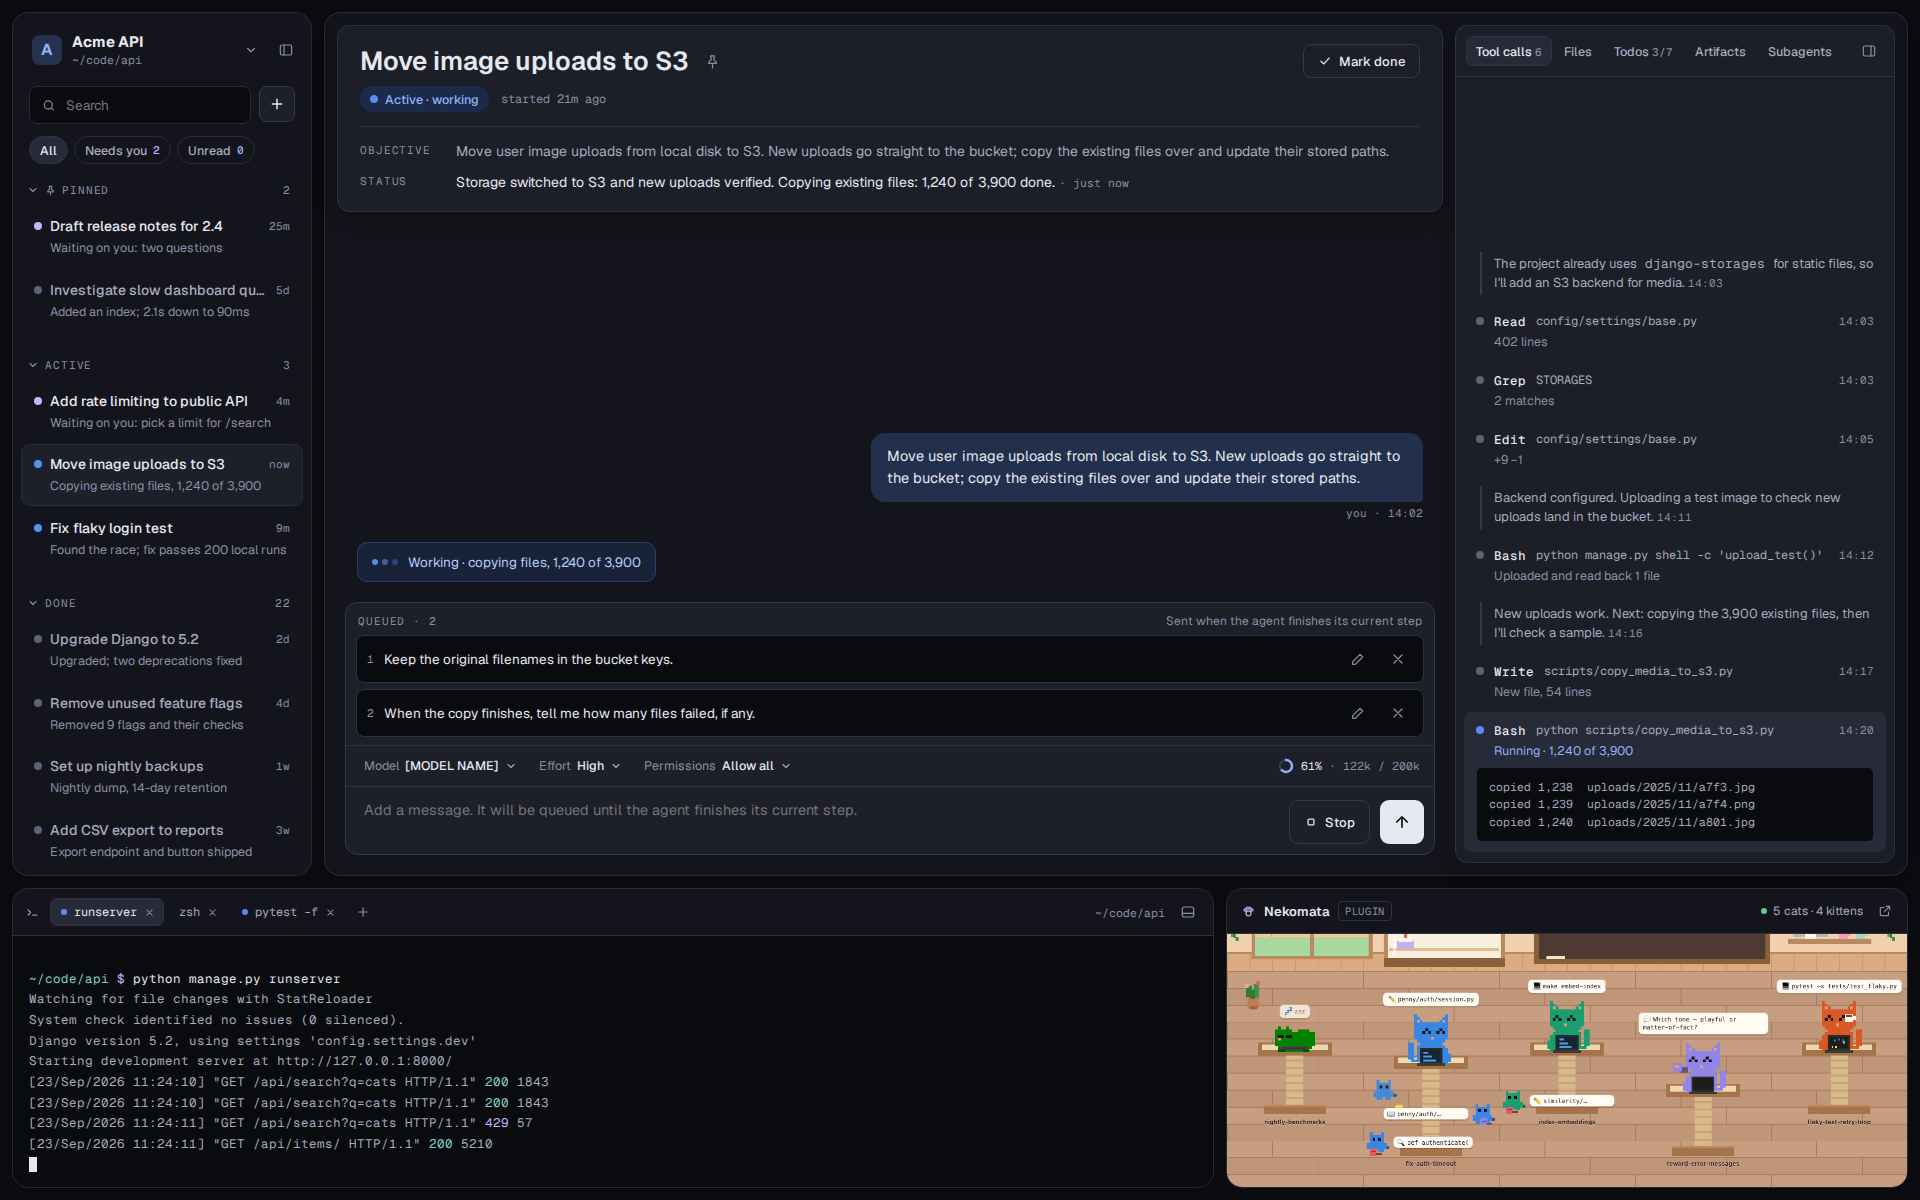
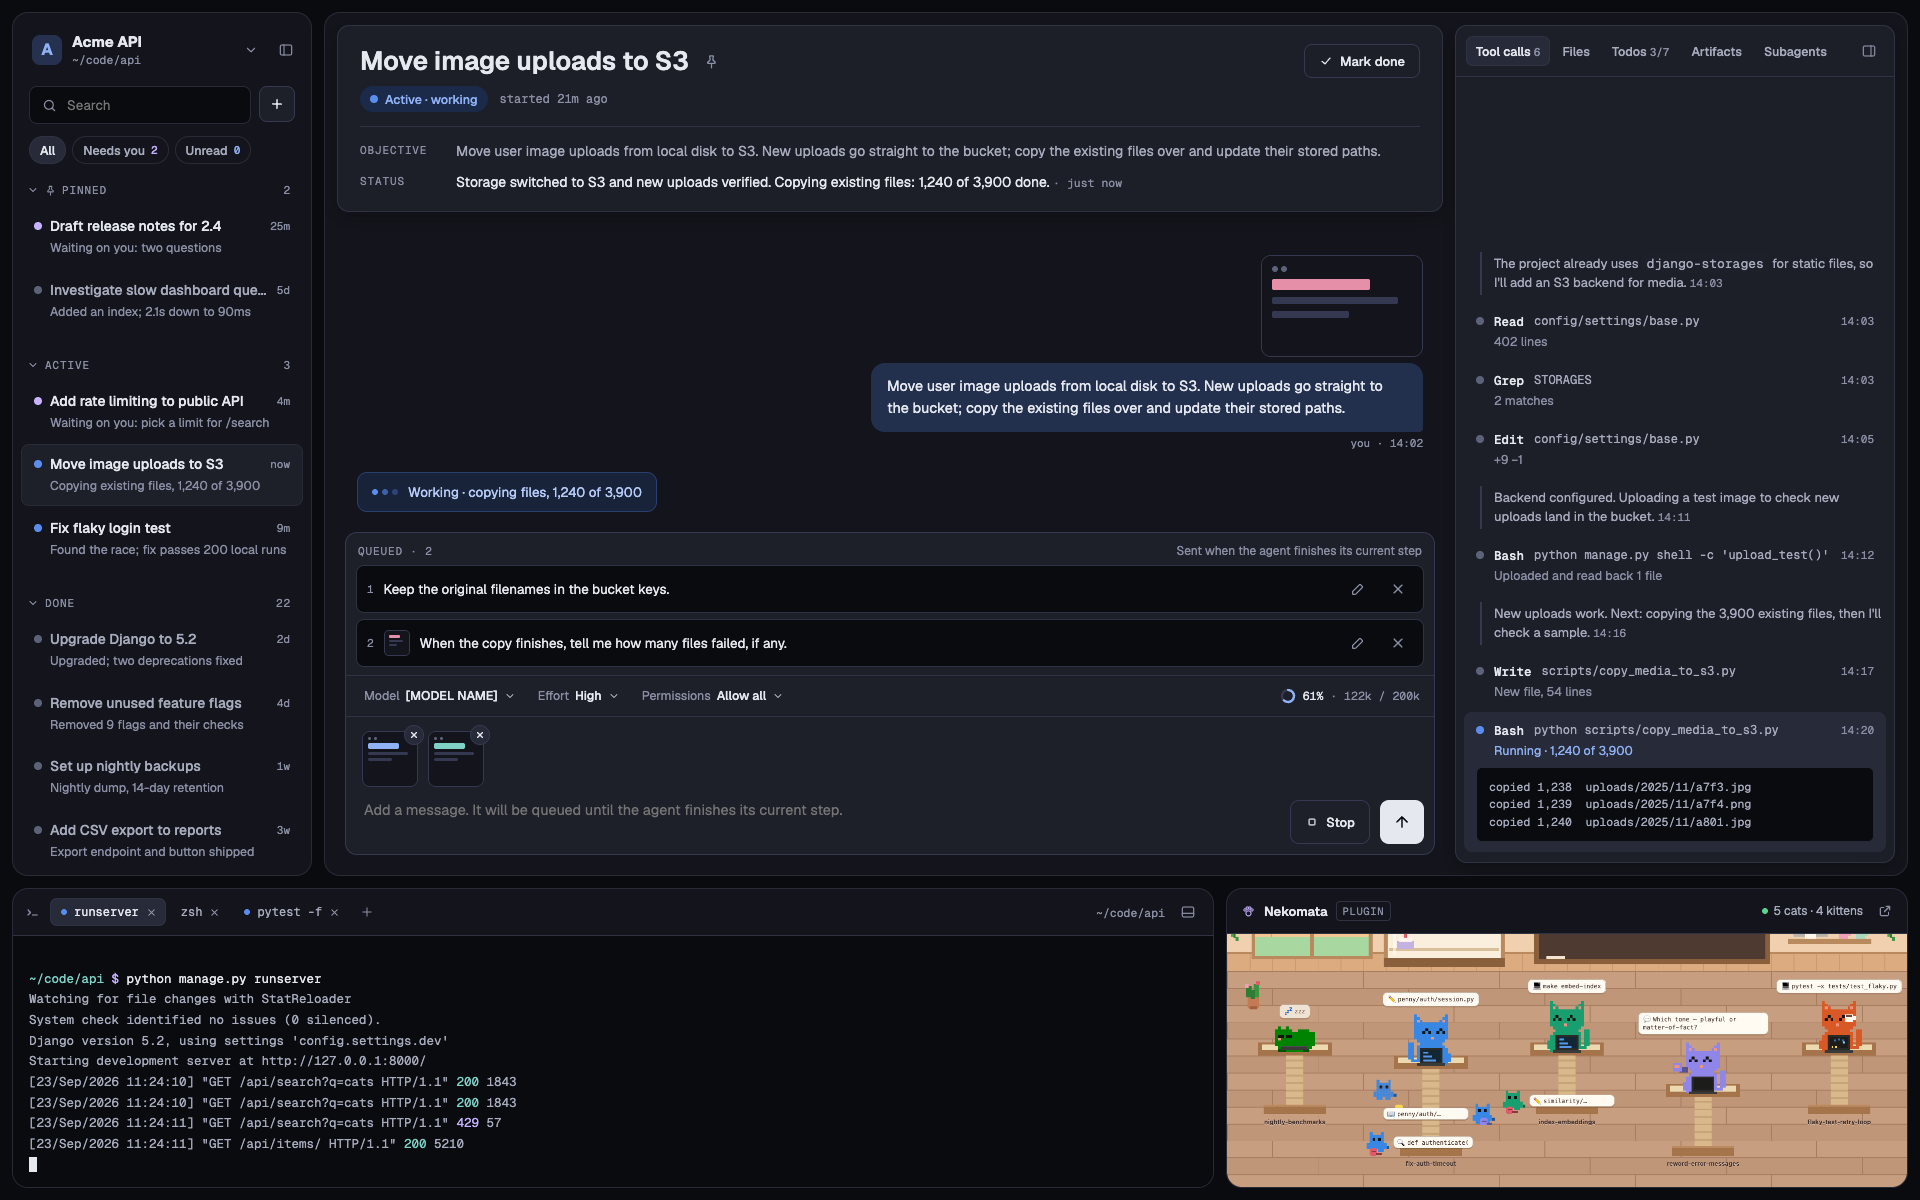
P9-07: add pasted images to the agent working design

diff --git a/docs/design/html/02-agent-working.html b/docs/design/html/02-agent-working.html
@@ -107,6 +107,7 @@ a{color:#8FB2F5}a:hover{color:#B5CBF8}
 <main style="flex-grow: 1; min-height: 0; min-width: 0; display: flex; flex-direction: column">
 <div style="flex-grow: 1; min-height: 0; overflow: hidden; padding: 12px 20px 20px 20px; display: flex; flex-direction: column; justify-content: flex-end; gap: 22px">
 <div style="flex-shrink: 0; display: flex; flex-direction: column; align-items: flex-end; gap: 4px">
+<span role="img" aria-label="Pasted image" style="display: block; margin-bottom: 2px; border: 1px solid #343850; border-radius: 10px; overflow: hidden"><span style="display: flex; flex-direction: column; gap: 7px; width: 160px; height: 100px; box-sizing: border-box; padding: 10px; background: #14151C; border-radius: 9px; overflow: hidden"><span style="display: flex; gap: 3px"><span style="width: 6px; height: 6px; border-radius: 50%; background: #5C6378"></span><span style="width: 6px; height: 6px; border-radius: 50%; background: #5C6378"></span></span><span style="height: 11px; width: 70%; border-radius: 2px; background: #E58FA8"></span><span style="height: 7px; width: 90%; border-radius: 2px; background: #343850"></span><span style="height: 7px; width: 55%; border-radius: 2px; background: #343850"></span></span></span>
 <div style="max-width: 520px; padding: 12px 16px; background: #22304D; border-radius: 14px 14px 4px 14px; font-size: 14.5px; line-height: 1.55; color: #E6E8F0">Move user image uploads from local disk to S3. New uploads go straight to the bucket; copy the existing files over and update their stored paths.</div>
 <span style="font-family: 'Geist Mono', ui-monospace, monospace; font-size: 11px; color: #8A8FA5">you · 14:02</span>
 </div>
@@ -123,6 +124,7 @@ a{color:#8FB2F5}a:hover{color:#B5CBF8}
 <button type="button" aria-label="Edit queued message" title="Edit queued message" style="flex-shrink: 0; display: flex; align-items: center; justify-content: center; width: 30px; height: 30px; background: transparent; border: 0; border-radius: 7px; color: #8A8FA5; cursor: pointer"><svg width="16" height="16" viewBox="0 0 24 24" fill="none" stroke="currentColor" stroke-width="1.8" stroke-linecap="round" stroke-linejoin="round"><path d="M4 20h4L19 9l-4-4L4 16z"></path></svg></button><button type="button" aria-label="Remove queued message" title="Remove queued message" style="flex-shrink: 0; display: flex; align-items: center; justify-content: center; width: 30px; height: 30px; background: transparent; border: 0; border-radius: 7px; color: #8A8FA5; cursor: pointer"><svg width="16" height="16" viewBox="0 0 24 24" fill="none" stroke="currentColor" stroke-width="1.8" stroke-linecap="round" stroke-linejoin="round"><path d="M6 6l12 12M18 6 6 18"></path></svg></button>
 </div><div style="display: flex; align-items: center; gap: 10px; padding: 8px 10px; background: #0A0B0F; border: 1px solid #2E3242; border-radius: 8px">
 <span style="font-family: 'Geist Mono', ui-monospace, monospace; font-size: 11px; color: #8A8FA5">2</span>
+<span role="img" aria-label="Pasted image" style="flex-shrink: 0; display: block; width: 26px; height: 26px; box-sizing: border-box; border: 1px solid #343850; border-radius: 5px; overflow: hidden"><span style="display: flex; flex-direction: column; gap: 2px; width: 24px; height: 24px; box-sizing: border-box; padding: 4px; background: #14151C"><span style="height: 3px; width: 70%; border-radius: 1px; background: #E58FA8"></span><span style="height: 2px; width: 90%; border-radius: 1px; background: #343850"></span><span style="height: 2px; width: 55%; border-radius: 1px; background: #343850"></span></span></span>
 <span style="flex-grow: 1; min-width: 0; font-size: 13.5px; color: #E6E8F0; white-space: nowrap; overflow: hidden; text-overflow: ellipsis">When the copy finishes, tell me how many files failed, if any.</span>
 <button type="button" aria-label="Edit queued message" title="Edit queued message" style="flex-shrink: 0; display: flex; align-items: center; justify-content: center; width: 30px; height: 30px; background: transparent; border: 0; border-radius: 7px; color: #8A8FA5; cursor: pointer"><svg width="16" height="16" viewBox="0 0 24 24" fill="none" stroke="currentColor" stroke-width="1.8" stroke-linecap="round" stroke-linejoin="round"><path d="M4 20h4L19 9l-4-4L4 16z"></path></svg></button><button type="button" aria-label="Remove queued message" title="Remove queued message" style="flex-shrink: 0; display: flex; align-items: center; justify-content: center; width: 30px; height: 30px; background: transparent; border: 0; border-radius: 7px; color: #8A8FA5; cursor: pointer"><svg width="16" height="16" viewBox="0 0 24 24" fill="none" stroke="currentColor" stroke-width="1.8" stroke-linecap="round" stroke-linejoin="round"><path d="M6 6l12 12M18 6 6 18"></path></svg></button>
 </div>
@@ -133,6 +135,7 @@ a{color:#8FB2F5}a:hover{color:#B5CBF8}
 <span><span style="color: #E6E8F0">61%</span> · 122k / 200k</span>
 </span>
 </div>
+<div style="display: flex; flex-wrap: wrap; gap: 10px; padding: 14px 10px 0 16px"><span style="position: relative; flex-shrink: 0; display: block; width: 56px; height: 56px; box-sizing: border-box; border: 1px solid #343850; border-radius: 8px"><span role="img" aria-label="Pasted image" style="display: block; border-radius: 7px; overflow: hidden"><span style="display: flex; flex-direction: column; gap: 3px; width: 54px; height: 54px; box-sizing: border-box; padding: 5px; background: #14151C; border-radius: 7px; overflow: hidden"><span style="display: flex; gap: 3px"><span style="width: 3px; height: 3px; border-radius: 50%; background: #5C6378"></span><span style="width: 3px; height: 3px; border-radius: 50%; background: #5C6378"></span></span><span style="height: 6px; width: 70%; border-radius: 2px; background: #8FB2F5"></span><span style="height: 3px; width: 90%; border-radius: 2px; background: #343850"></span><span style="height: 3px; width: 55%; border-radius: 2px; background: #343850"></span></span></span><button type="button" aria-label="Remove image" title="Remove image" style="position: absolute; top: -7px; right: -7px; display: flex; align-items: center; justify-content: center; width: 20px; height: 20px; padding: 0; background: #272A38; color: #E6E8F0; border: 1px solid #343850; border-radius: 10px; cursor: pointer"><svg width="10" height="10" viewBox="0 0 24 24" fill="none" stroke="currentColor" stroke-width="2.6" stroke-linecap="round" stroke-linejoin="round"><path d="M6 6l12 12M18 6 6 18"></path></svg></button></span><span style="position: relative; flex-shrink: 0; display: block; width: 56px; height: 56px; box-sizing: border-box; border: 1px solid #343850; border-radius: 8px"><span role="img" aria-label="Pasted image" style="display: block; border-radius: 7px; overflow: hidden"><span style="display: flex; flex-direction: column; gap: 3px; width: 54px; height: 54px; box-sizing: border-box; padding: 5px; background: #14151C; border-radius: 7px; overflow: hidden"><span style="display: flex; gap: 3px"><span style="width: 3px; height: 3px; border-radius: 50%; background: #5C6378"></span><span style="width: 3px; height: 3px; border-radius: 50%; background: #5C6378"></span></span><span style="height: 6px; width: 70%; border-radius: 2px; background: #7FD1C7"></span><span style="height: 3px; width: 90%; border-radius: 2px; background: #343850"></span><span style="height: 3px; width: 55%; border-radius: 2px; background: #343850"></span></span></span><button type="button" aria-label="Remove image" title="Remove image" style="position: absolute; top: -7px; right: -7px; display: flex; align-items: center; justify-content: center; width: 20px; height: 20px; padding: 0; background: #272A38; color: #E6E8F0; border: 1px solid #343850; border-radius: 10px; cursor: pointer"><svg width="10" height="10" viewBox="0 0 24 24" fill="none" stroke="currentColor" stroke-width="2.6" stroke-linecap="round" stroke-linejoin="round"><path d="M6 6l12 12M18 6 6 18"></path></svg></button></span></div>
 <div style="display: flex; align-items: flex-end; gap: 10px; padding: 10px 10px 10px 16px">
 <textarea aria-label="Message the agent" placeholder="Add a message. It will be queued until the agent finishes its current step." rows="2" style="flex-grow: 1; resize: none; background: transparent; border: 0; outline: none; font: inherit; font-size: 14.5px; line-height: 1.5; color: #E6E8F0"></textarea>
 <button type="button" style="display: flex; align-items: center; gap: 7px; height: 44px; padding: 0 14px; background: transparent; color: #E6E8F0; border: 1px solid #343850; border-radius: 9px; font: inherit; font-size: 13px; font-weight: 500; cursor: pointer"><svg width="14" height="14" viewBox="0 0 24 24" fill="none" stroke="currentColor" stroke-width="2.2" stroke-linecap="round" stroke-linejoin="round"><rect x="7" y="7" width="10" height="10" rx="1.5"></rect></svg>Stop</button>

diff --git a/docs/design/README.md b/docs/design/README.md
@@ -8,7 +8,7 @@ illustrative. Tokens are in `tokens.md`; exact markup per screen in `html/`.
 | Task workspace | The main window: sidebar, task card with header, chat and right panel, bottom bar. Done section collapsed. | ![Task workspace](screens/task-workspace.png) |
 | Task lifecycle | Active ⇄ Done and the task record. | ![Task lifecycle](screens/lifecycle.png) |
 | 1 · New task | An empty task; the first message sets the title and objective. | ![1 · New task](screens/01-new-task.png) |
-| 2 · Agent working | Live working line, Stop, message queue above the input, context meter. | ![2 · Agent working](screens/02-agent-working.png) |
+| 2 · Agent working | Live working line, Stop, message queue above the input, pasted images above the text, context meter. | ![2 · Agent working](screens/02-agent-working.png) |
 | 3 · Rich question | The `ask` card: option cards with sketches, pills, Send answers. | ![3 · Rich question](screens/03-rich-question.png) |
 | 4 · Needs you | Unread row in the sidebar and a native notification from another task. | ![4 · Needs you](screens/04-needs-you.png) |
 | 5 · Mark done | No dialog; Undo toast; the task moves to Done with its outcome. | ![5 · Mark done](screens/05-mark-done.png) |
